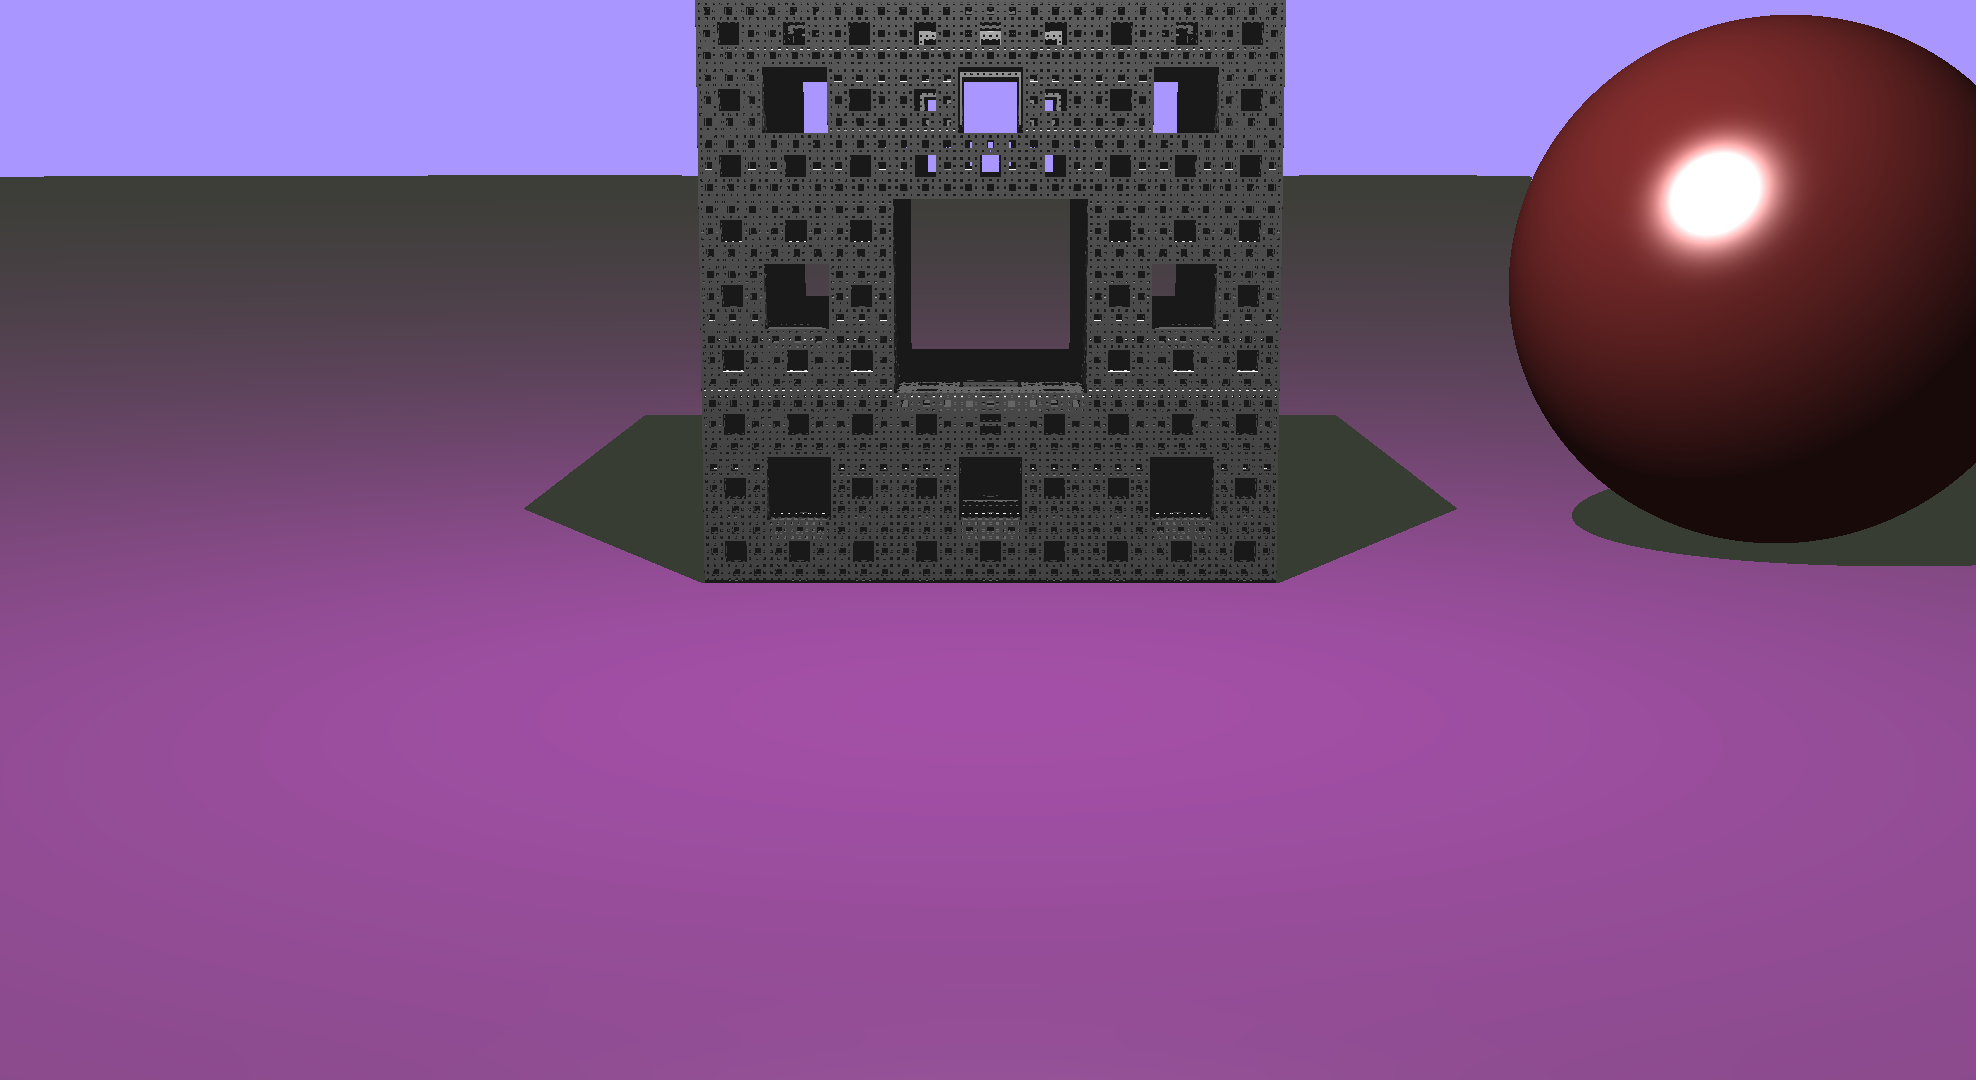
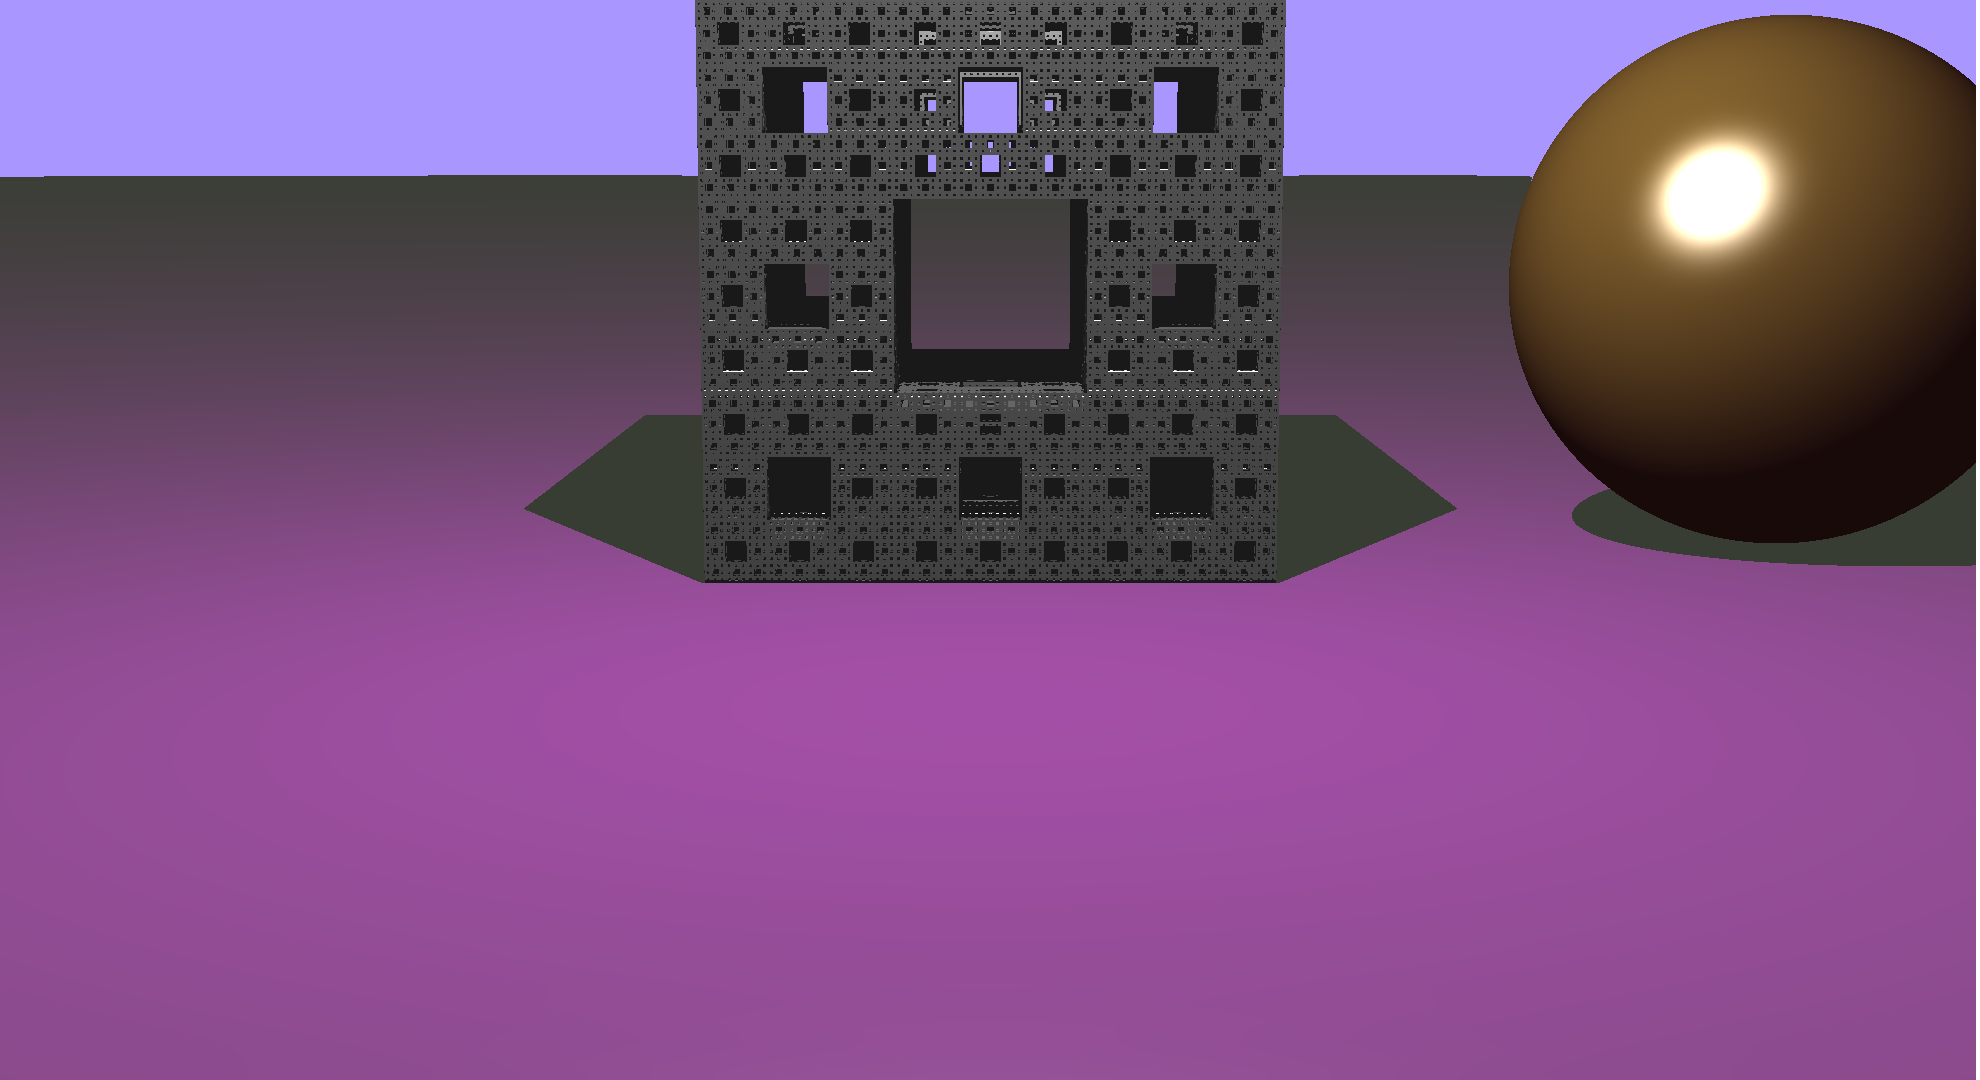
minor fixes

Changed region(s): [[0.7394, 0.0, 0.9859, 0.3667]]

diff --git a/src/gpu/shaders.rs b/src/gpu/shaders.rs
@@ -99,7 +99,7 @@ pub mod cs {
                         ObjInfo(
                             sphere_sdf(p - vec3(3.0, 1.0, 0.0)),
                             vec3(0.5, 0.2, 0.2),
-                            vec3(0.6, 0.2, 0.2),
+                            vec3(0.6, 0.5, 0.2),
                             vec3(2.0, 2.0, 2.0),
                             15.0
                         ),
